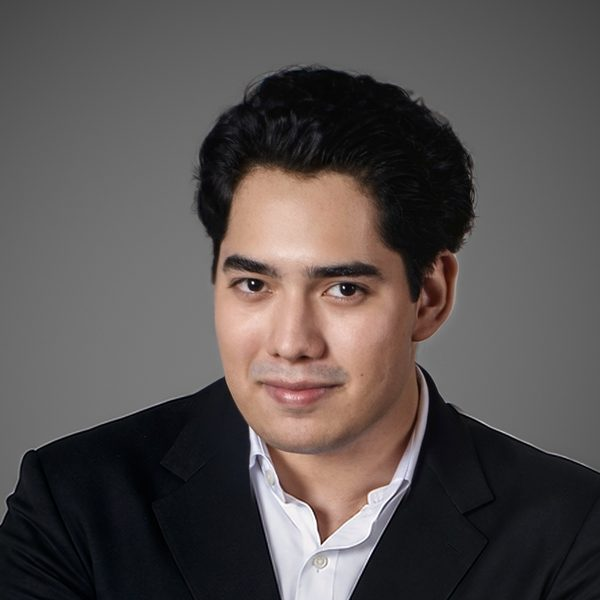
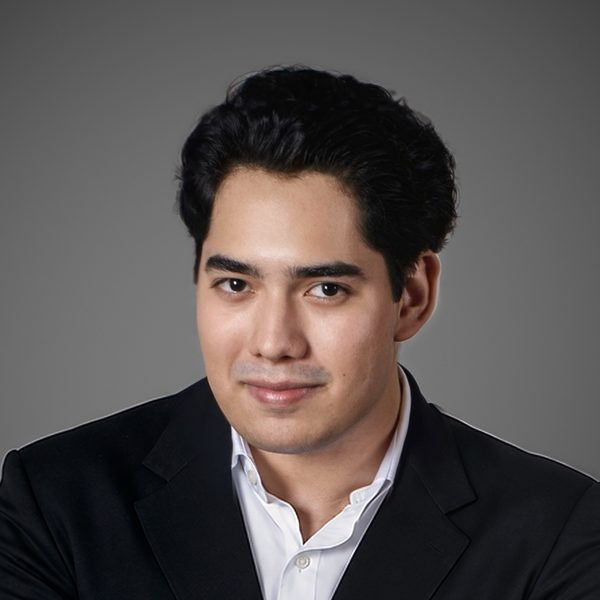
Fundadores: retrato de Kamilo centrado y sin el bloque de contacto
- El retrato de Kamilo se corre un 3 % a la izquierda para quedar centrado como los otros dos
- Se quita de la página de fundadores el cierre que invitaba a escribirle al equipo fundador

diff --git a/fundadores/index.html b/fundadores/index.html
@@ -94,16 +94,6 @@
 
   </div>
 
-  <section class="cierre cierre-corto oscuro">
-    <div class="cierre-in aparece">
-      <h2 class="cierre-frase">Las conversaciones que valen la&nbsp;pena <span class="acento">empiezan con un correo.</span></h2>
-      <p class="bajada">Para hablar con el equipo fundador, escribinos.</p>
-      <div class="correo-caja">
-        <a class="correo" href="mailto:vygogroup@gmail.com?subject=Para%20el%20equipo%20fundador">vygogroup@gmail.com</a>
-        <button class="copiar" type="button" data-copiar="vygogroup@gmail.com" aria-label="Copiar el correo">Copiar</button>
-      </div>
-    </div>
-  </section>
 </main>
 
 <footer class="pie oscuro">
